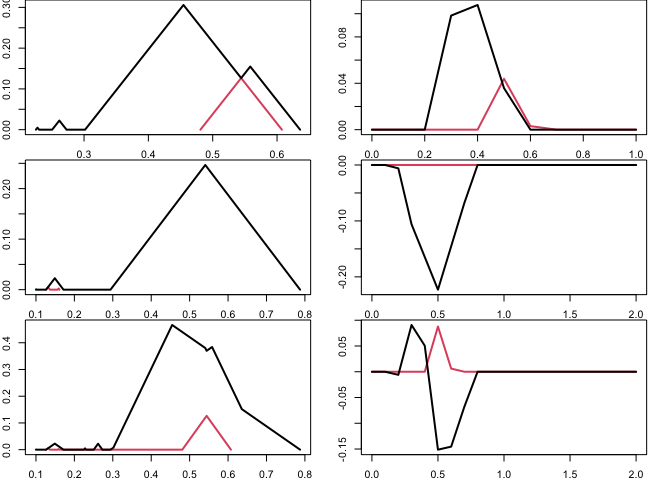
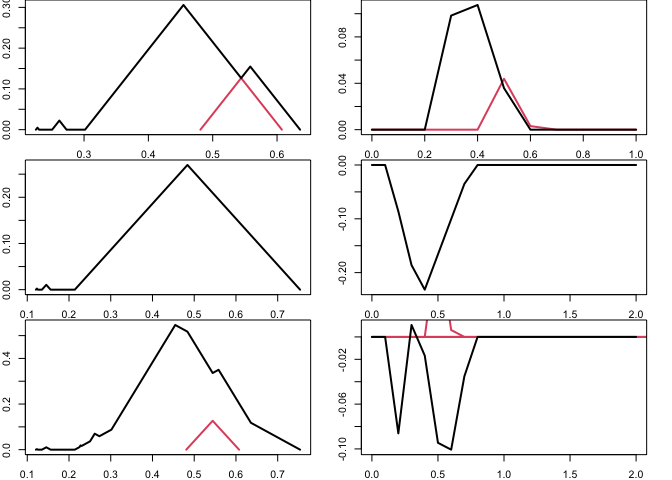
spell out journal name + set seed for second sample

diff --git a/README.md b/README.md
@@ -79,71 +79,16 @@ plot(pc, asp = 1, pch = 16L)
 
 ``` r
 pd <- ripserr::vietoris_rips(pc, dim = 1, threshold = 2, p = 2)
+#> Warning in vietoris_rips.matrix(pc, dim = 1, threshold = 2, p = 2): `dim`
+#> parameter has been deprecated; use `max_dim` instead.
 print(pd)
-#>    dimension     birth      death
-#> 1          0 0.0000000 0.01918952
-#> 2          0 0.0000000 0.01947548
-#> 3          0 0.0000000 0.02604350
-#> 4          0 0.0000000 0.04218479
-#> 5          0 0.0000000 0.04542467
-#> 6          0 0.0000000 0.05941691
-#> 7          0 0.0000000 0.06030423
-#> 8          0 0.0000000 0.06260854
-#> 9          0 0.0000000 0.06478082
-#> 10         0 0.0000000 0.06766925
-#> 11         0 0.0000000 0.07158685
-#> 12         0 0.0000000 0.07398253
-#> 13         0 0.0000000 0.07623591
-#> 14         0 0.0000000 0.07662517
-#> 15         0 0.0000000 0.07896342
-#> 16         0 0.0000000 0.08043306
-#> 17         0 0.0000000 0.08642298
-#> 18         0 0.0000000 0.08698163
-#> 19         0 0.0000000 0.08850341
-#> 20         0 0.0000000 0.08850349
-#> 21         0 0.0000000 0.09024332
-#> 22         0 0.0000000 0.09502309
-#> 23         0 0.0000000 0.09673399
-#> 24         0 0.0000000 0.10001714
-#> 25         0 0.0000000 0.10007503
-#> 26         0 0.0000000 0.10147098
-#> 27         0 0.0000000 0.10290514
-#> 28         0 0.0000000 0.11388282
-#> 29         0 0.0000000 0.11527285
-#> 30         0 0.0000000 0.12074671
-#> 31         0 0.0000000 0.12093951
-#> 32         0 0.0000000 0.12170977
-#> 33         0 0.0000000 0.13435379
-#> 34         0 0.0000000 0.13492348
-#> 35         0 0.0000000 0.13563400
-#> 36         0 0.0000000 0.13846410
-#> 37         0 0.0000000 0.14438541
-#> 38         0 0.0000000 0.14806602
-#> 39         0 0.0000000 0.16101999
-#> 40         0 0.0000000 0.16433348
-#> 41         0 0.0000000 0.16487642
-#> 42         0 0.0000000 0.17046509
-#> 43         0 0.0000000 0.18270262
-#> 44         0 0.0000000 0.18502783
-#> 45         0 0.0000000 0.18551972
-#> 46         0 0.0000000 0.19104680
-#> 47         0 0.0000000 0.19117990
-#> 48         0 0.0000000 0.19144013
-#> 49         0 0.0000000 0.19311162
-#> 50         0 0.0000000 0.19403676
-#> 51         0 0.0000000 0.20145942
-#> 52         0 0.0000000 0.20234674
-#> 53         0 0.0000000 0.20856429
-#> 54         0 0.0000000 0.21921402
-#> 55         0 0.0000000 0.24334202
-#> 56         0 0.0000000 0.24700342
-#> 57         0 0.0000000 0.24971202
-#> 58         0 0.0000000 0.25881722
-#> 59         0 0.0000000 0.37692215
-#> 60         1 0.4809292 0.63582254
-#> 61         1 0.3016234 0.60751718
-#> 62         1 0.2504500 0.27279150
-#> 63         1 0.2251884 0.23008714
+#> PHom object containing persistence data for 63 features.
+#> 
+#> Contains:
+#> * 59 0-dim features
+#> * 4 1-dim features
+#> 
+#> Radius/diameter: min = 0; max = 0.63582.
 ```
 
 We the convert the persistence data to the preferred persistence diagram
@@ -378,8 +323,11 @@ To illustrate these features, we first generate a companion data set:
 
 ``` r
 # a new landscape and its discretization
+set.seed(772888L)
 pc2 <- tdaunif::sample_circle(60, sd = .1) / 2
 pd2 <- ripserr::vietoris_rips(pc2, dim = 1, threshold = 2, p = 2)
+#> Warning in vietoris_rips.matrix(pc2, dim = 1, threshold = 2, p = 2): `dim`
+#> parameter has been deprecated; use `max_dim` instead.
 pl2 <- landscape(pd2, degree = 1, exact = TRUE)
 pl2 <- pl_delimit(pl2, xmin = 0, xmax = 2, xby = 0.1)
 pl2_ <- pl_discretize(pl2)
@@ -407,11 +355,11 @@ plot(2 * pl1_ - pl2_)
 par(mfrow = c(1L, 1L), mar = c(5.1, 4.1, 4.1, 2.1))
 # inner products of exact and discrete landscapes
 pl1 %*% pl2
-#> [1] 0.004056106
+#> [1] 0.005336876
 pl1_ %*% pl2_
-#> [1] 0.003609078
+#> [1] 0.004917171
 pl1 %*% pl2_
-#> [1] 0.003609078
+#> [1] 0.004917171
 ```
 
 (Note that the operations automatically reconcile the different ranges
@@ -428,11 +376,11 @@ the (signed) area under the curve, itself also a linear operator:
 pl_integrate(pl1)
 #> [1] 0.02952152
 pl_integrate(pl2)
-#> [1] 0.06142127
+#> [1] 0.07295263
 pl_integrate(pl1) * 2 - pl_integrate(pl2)
-#> [1] -0.002378238
+#> [1] -0.01390959
 pl_integrate(pl1 * 2 - pl2)
-#> [1] -0.002378238
+#> [1] -0.01390959
 ```
 
 The distance between two landscapes is defined in terms of the integral
@@ -444,23 +392,23 @@ must be careful when comparing their results:
 ``` r
 # using the 1-norm
 pl_integrate(pl_abs(pl1 * 2 - pl2), p = 1)
-#> [1] 0.04709364
+#> [1] 0.03560593
 pl_distance(pl1 * 2, pl2, p = 1)
-#> [1] 0.04709364
+#> [1] 0.03560593
 
 # using the 2-norm
 pl_integrate(pl_abs(pl1 * 2 - pl2), p = 2) ^ (1/2)
-#> [1] 0.06767872
+#> [1] 0.05041889
 pl_distance(pl1 * 2, pl2, p = 2)
-#> [1] 0.06767872
+#> [1] 0.05041889
 
 # using the infinity norm
 pl_integrate(pl_abs(pl1 * 2 - pl2), p = Inf) # nope!
-#> [1] 0
+#> [1] 0.7595389
 pl_max(pl_abs(pl1 * 2 - pl2))
-#> [1] 0.151667
+#> [1] 0.1178478
 pl_distance(pl1 * 2, pl2, p = Inf)
-#> [1] 0.151667
+#> [1] 0.1265879
 ```
 
 The norm of a persistence landscape is then defined as its distance from
@@ -509,7 +457,8 @@ If you use **plt** in published work, please include a citation
 following `citation("plt")`.
 
 [^1]: Bubenik P (2015) “Statistical Topological Data Analysis using
-    Persistence Landscapes”. *JMLR* **16**(3):77–102.
+    Persistence Landscapes”. *Journal of Machine Learning Research*
+    **16**(3):77–102.
     <https://jmlr.csail.mit.edu/papers/v16/bubenik15a.html>
 
 [^2]: Bubenik P & Dłotko P (2017) “A persistence landscapes toolbox for
